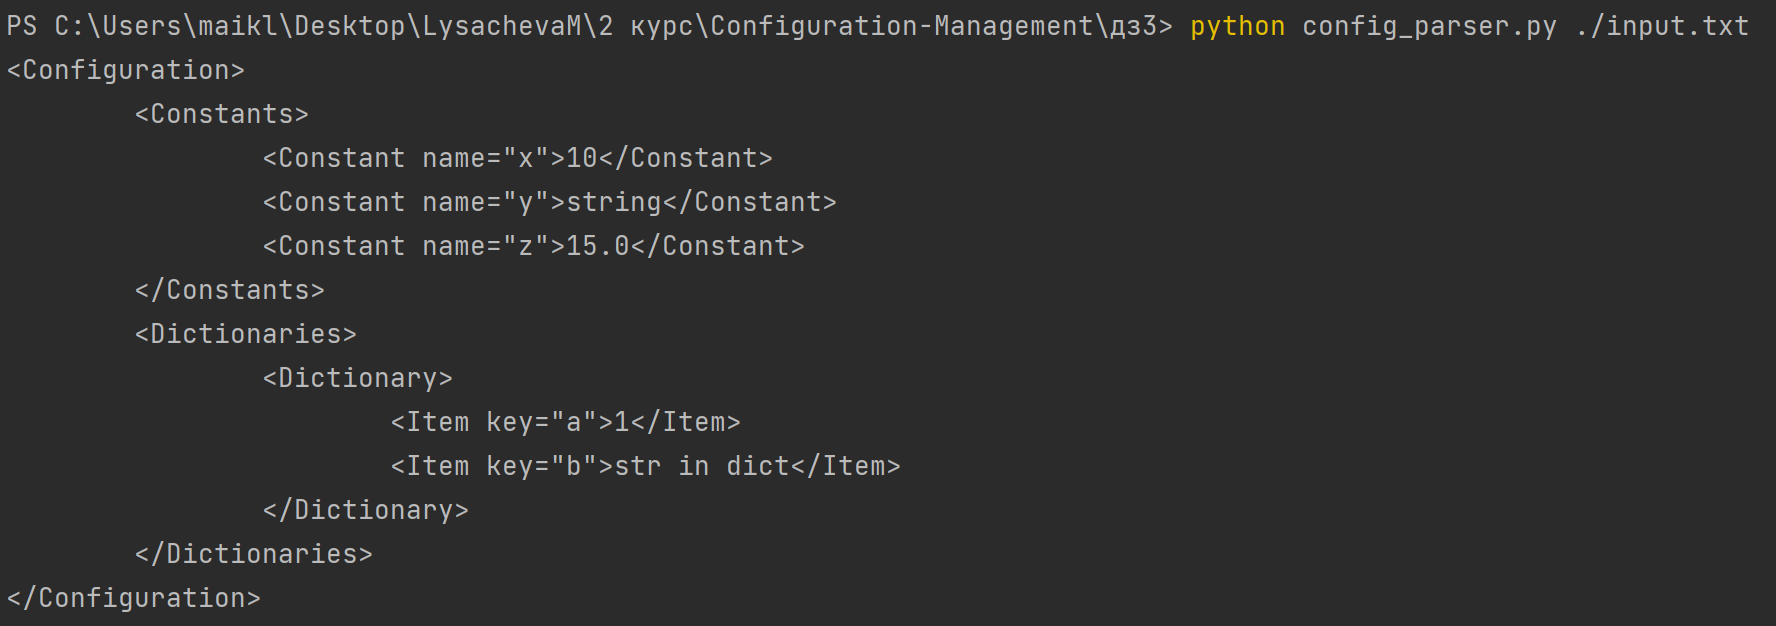
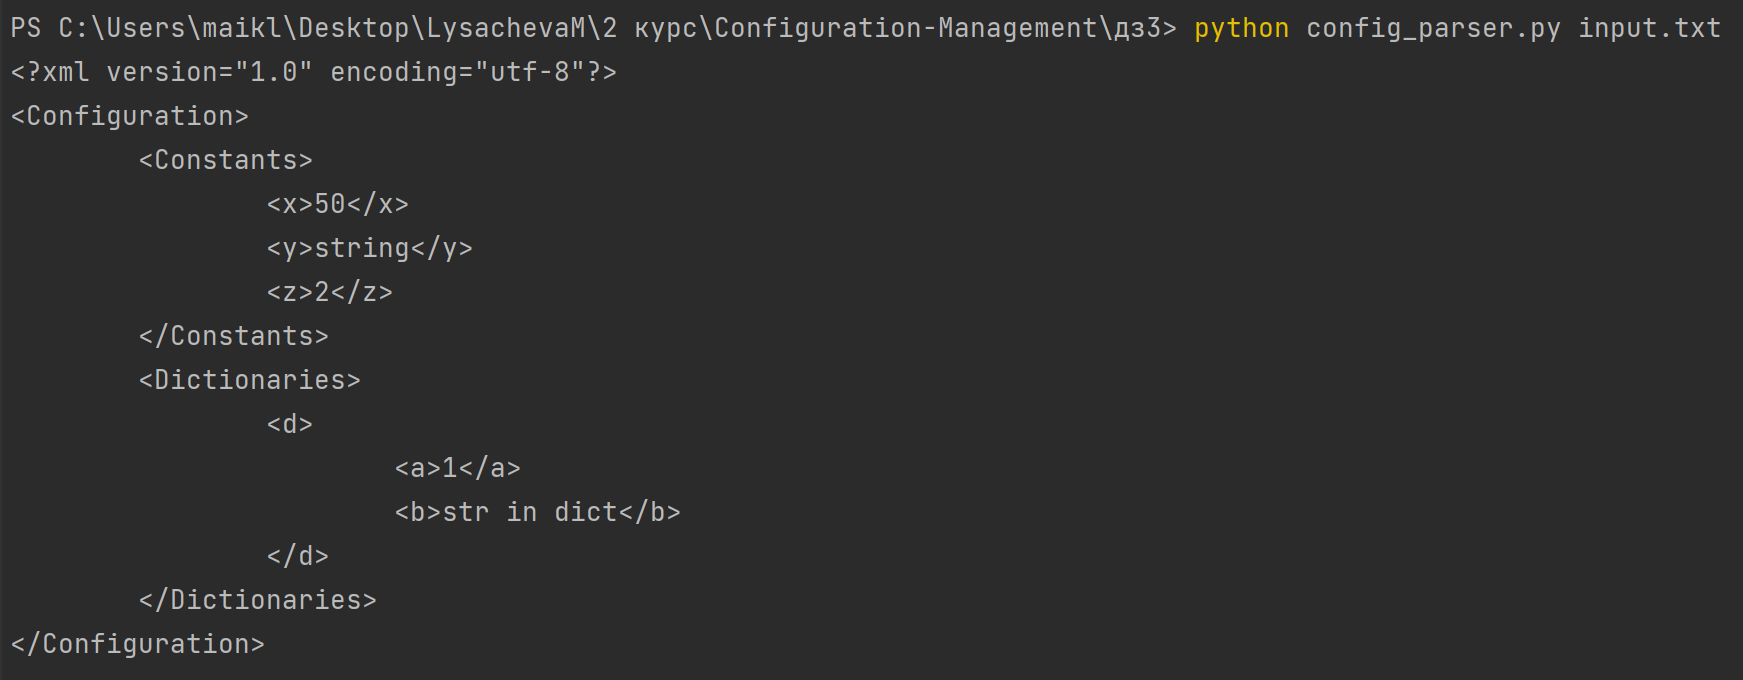
correct test data in README.md

diff --git a/ДЗ3/README.md b/ДЗ3/README.md
@@ -94,7 +94,7 @@ config_parser.py
 комментарий
 =end
 
-let x = 10
+let x = 50
 let y = [[ string ]]
 
 d = {
@@ -102,7 +102,7 @@ d = {
     b -> [[ str in dict ]].
 }
 
-let z = !(x 5 +)
+let z = !(x chr())
 ```
 
 Результат:
